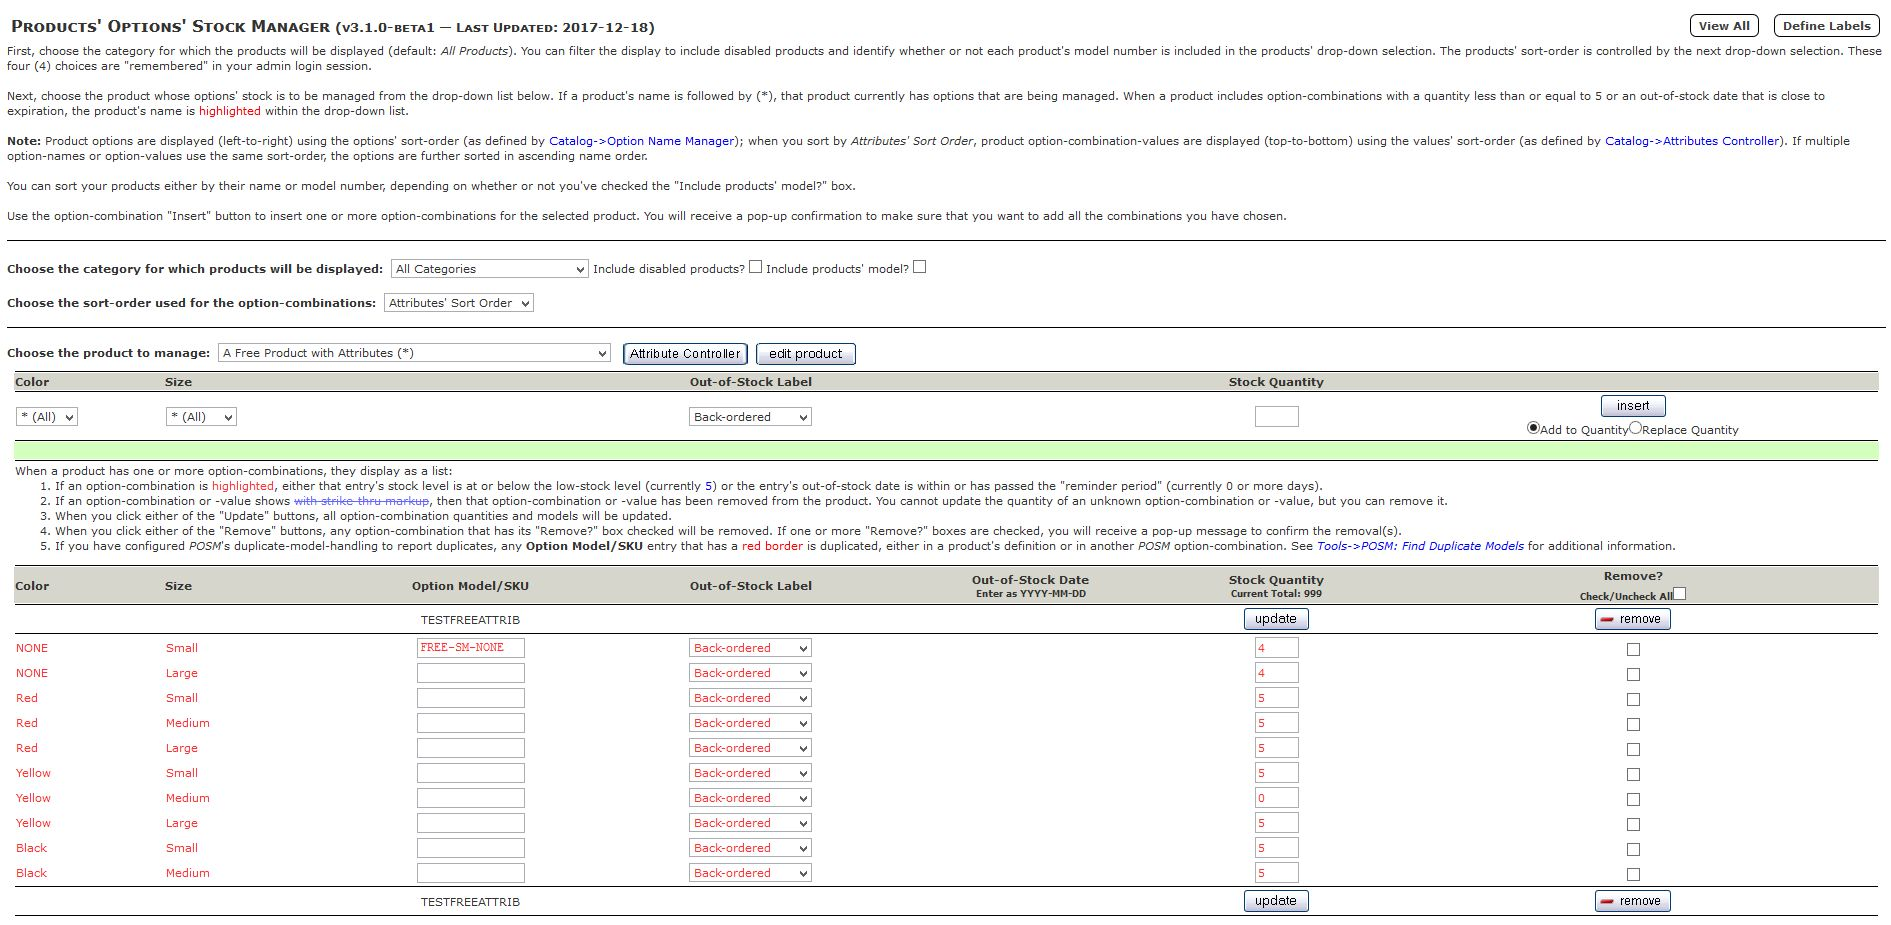
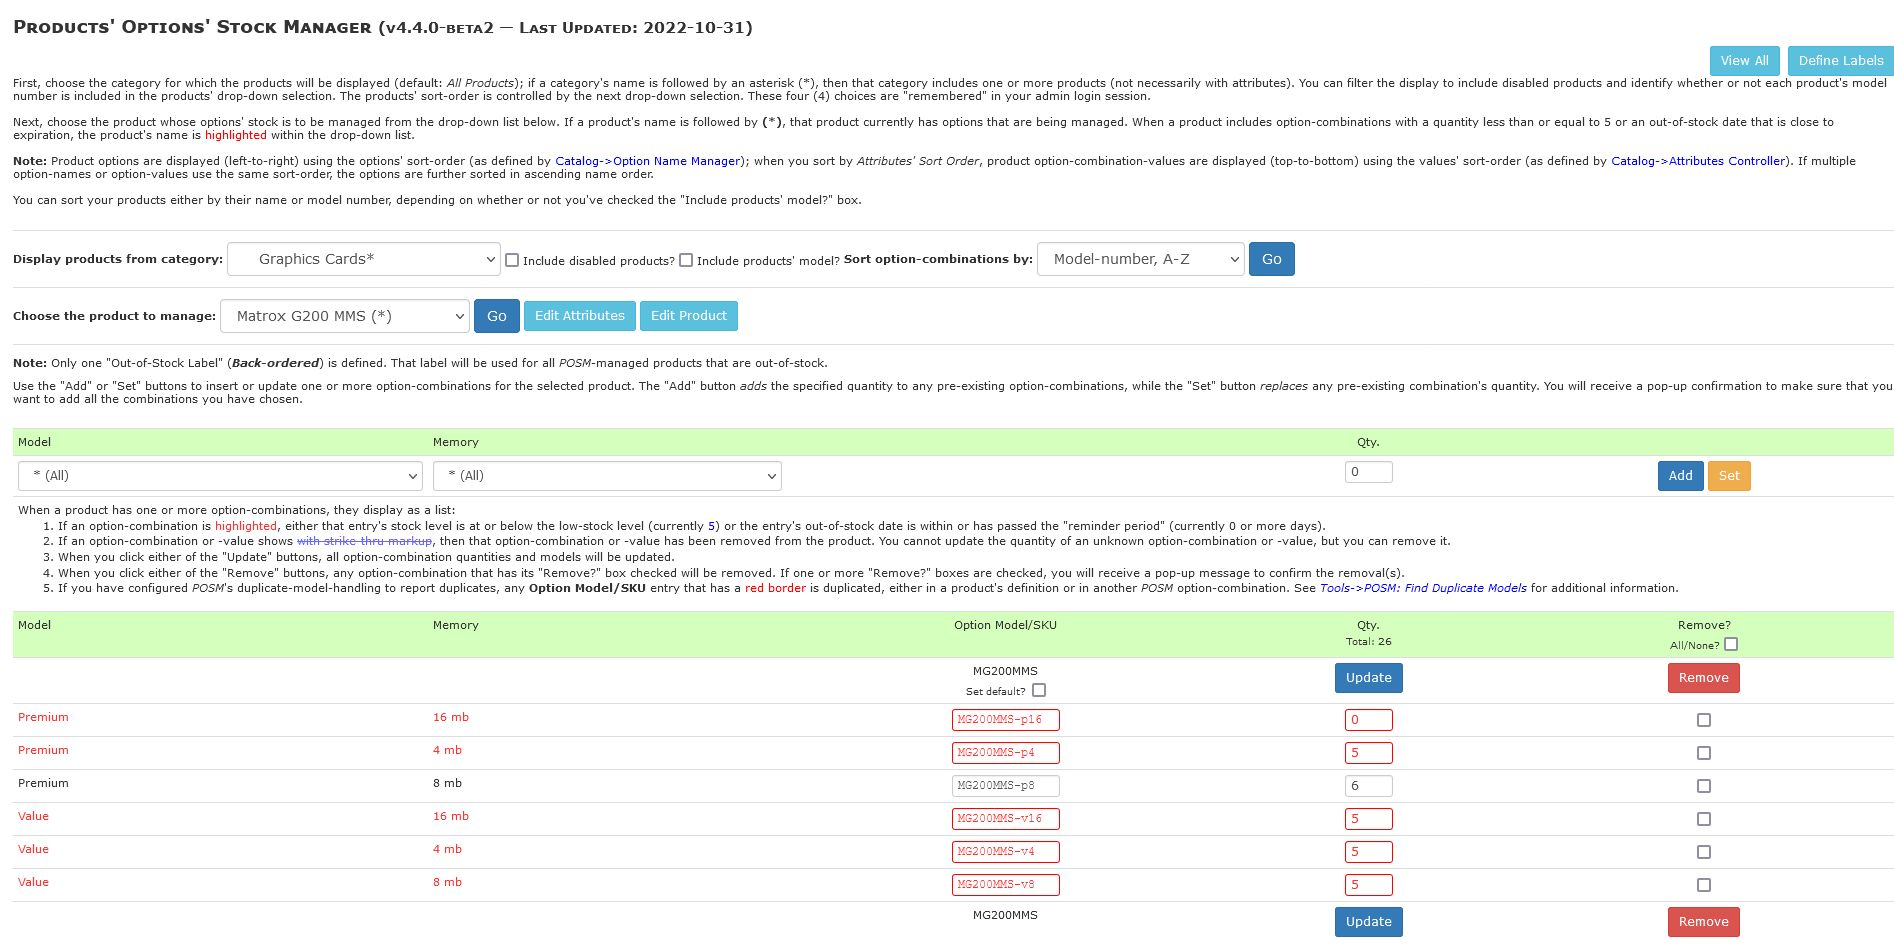
#49: Capturing updated admin images/descriptions

diff --git a/pages/admin_interfaces.md b/pages/admin_interfaces.md
@@ -29,37 +29,37 @@ There's a lot going on on this page, here's a breakdown:
 
 1.  The **View All** button in the top-right portion of the screen will take you to the [Catalog->Options' Stock — View All](#catalog-options-stock-view-all) tool; refer to the linked section for more information.
 2.  The **Define Labels** button in the top-right portion of the screen will take you to the [Localization->Out-of-Stock Labels](#localization-out-of-stock-labels) tool; refer to the linked section for more information.
-3.  The upper section is a form containing four (4) fields — any change results in the form's auto-submittal. Each of these selections are _remembered_ in the logged-in admin's session.
+3.  The upper section is a form containing four (4) fields — make your selections and then click the associated "Go" button. Each of these selections are _remembered_ in the logged-in admin's session.
     *   A _category_ dropdown; choose either _All categories_ or the specific category for which products are displayed.
     *   A checkbox, identifying whether or not to include disabled products in the products' drop-down.
     *   A checkbox, identifying whether or not a product's model-number is pre-pended to its name in the products' drop-down.
     *   A drop-down selection with which you choose the method by which the products' option-combinations are sorted.
-4.  The products' drop-down list (an auto-submit form) on the left-hand side of the page allows you to choose the product whose options are to be managed. If the product's name is appended with **(*)**, then that product currently has options' stock definitions.  
+4.  The products' drop-down list on the left-hand side of the page allows you to choose the product whose options are to be managed; make your choice and then click the associated "Go" button. If the product's name is appended with **(*)**, then that product currently has options' stock definitions.  
     **Note:** Starting with v1.6.0, any product with low-stock options' definitions is highlighted in <span class="red">red</span> in the product drop-down.
 5.  Once you've selected a product from the dropdown list:
-    1.  the "Attribute Controller" button will take you to the _Catalog->Attributes Controller_ page where you can manage the product's individual attributes.
-    2.  the "edit product" button will take you to the _Catalog->Categories/Products_ page where you can edit the base product's details.
+    1.  Clicking the "Edit Attributes" button will take you to the _Catalog->Attributes Controller_ page where you can manage the product's individual attributes.
+    2.  Clicking the "Edit Product" button will take you to the _Catalog->Categories/Products_ page where you can edit the base product's details.
 6.  Below the product drop-down list, a table is presented showing:
     1.  A column for each of the product's drop-down and/or radio-button attributes with a drop-down list showing all of the possible option values.
-    2.  A drop-down list showing each of the currently-defined out-of-stock labels configured for this plugin. Use this to choose the default label to use for any inserted combinations.
+    2.  A drop-down list showing each of the currently-defined out-of-stock labels configured for this plugin &mdash; so long as more than one has been defined. Use this to choose the default label to use for any *inserted* combinations.
     3.  A quantity input where you identify the stock quantity for each of the options.
-    4.  An "insert" button; click this to insert the option-combinations you've specified. A pop-up confirmation message will appear to make sure that you want to insert the combinations.
+    4.  An "Add" and a "Set" button.  Click the "Add" button to *add* the quantity to any existing option-combinations or click the "Set" button to *replace* existing quantities with the specified value. A pop-up confirmation message will appear to make sure that you want to insert/update the combinations.
 
 Here's what the screen looks like when displaying the same product, but with some options-stock combinations configured:
 
 ![Product with options-stock configured](options_stock_main_configured.jpg)
 
-Once the product has options' stock to manage, you can enter the _Model/SKU_ for each option-combination; starting with v2.1.4 of _POSM_, the base product's Model/SKU is displayed as a reference in the button rows. You can have different out-of-stock labels (and/or associated dates) for each combination. The **Out-of-Stock Date** input displays _only_ if the associated **Out-of-Stock Label** contains the date-insertion tag **[date]**.
+Once the product has options' stock to manage, you can enter the _Model/SKU_ for each option-combination; starting with v2.1.4 of _POSM_, the base product's Model/SKU is displayed as a reference in the button rows. You can have different out-of-stock labels (and/or associated dates) for each combination. The **Back-in-Stock Date** input displays _only_ if the associated **Out-of-Stock Label** contains the date-insertion tag **[date]**.
 
-Use the middle form, showing the options, out-of-stock label and stock-quantity to quickly update or change options' quantities.  For the example shown above, let's say you wanted to increase the quantity of each variant with a ***Color*** of *Red* by 3.  You'll
+Use the middle form, showing the options, out-of-stock label and stock-quantity to quickly update or change multiple options' quantities.  For the example shown above, let's say you wanted to increase the quantity of each variant with a ***Model*** of *Value* by 3.  You'll
 
-1. Choose `Red` from the `Color` dropdown, leaving the `Size` as `* (All)`.
-2. Set the `Stock Quantity` value to 3.
-3. Ensure that the `Add to Quantity` radio-button is selected and click the `Insert` button.
+1. Choose `Value` from the `Model` dropdown, leaving the `Memory` as `* (All)`.
+2. Set the `Qty` value to 3.
+3. Click the "Add" button.
 
-You'll receive a javascript confirmation of the update and, once accepted, each of the `Red` colored items' quantities will be increased by 3.
+You'll receive a javascript confirmation of the update and, once accepted, each of the `Value` models' items' quantities will be increased by 3.
 
-If, instead, you want to specify the quantity for those items, e.g. if all *Red* colored items should have a quantity of 3, you'd choose the `Replace Quantity` radio-button prior to clicking the `Insert` button.
+If, instead, you want to specify the quantity for those items, e.g. if all *Value* models' items should have a quantity of 3, you'd click the "Set" button instead.
 
 ## Catalog->Options' Stock View All
 
